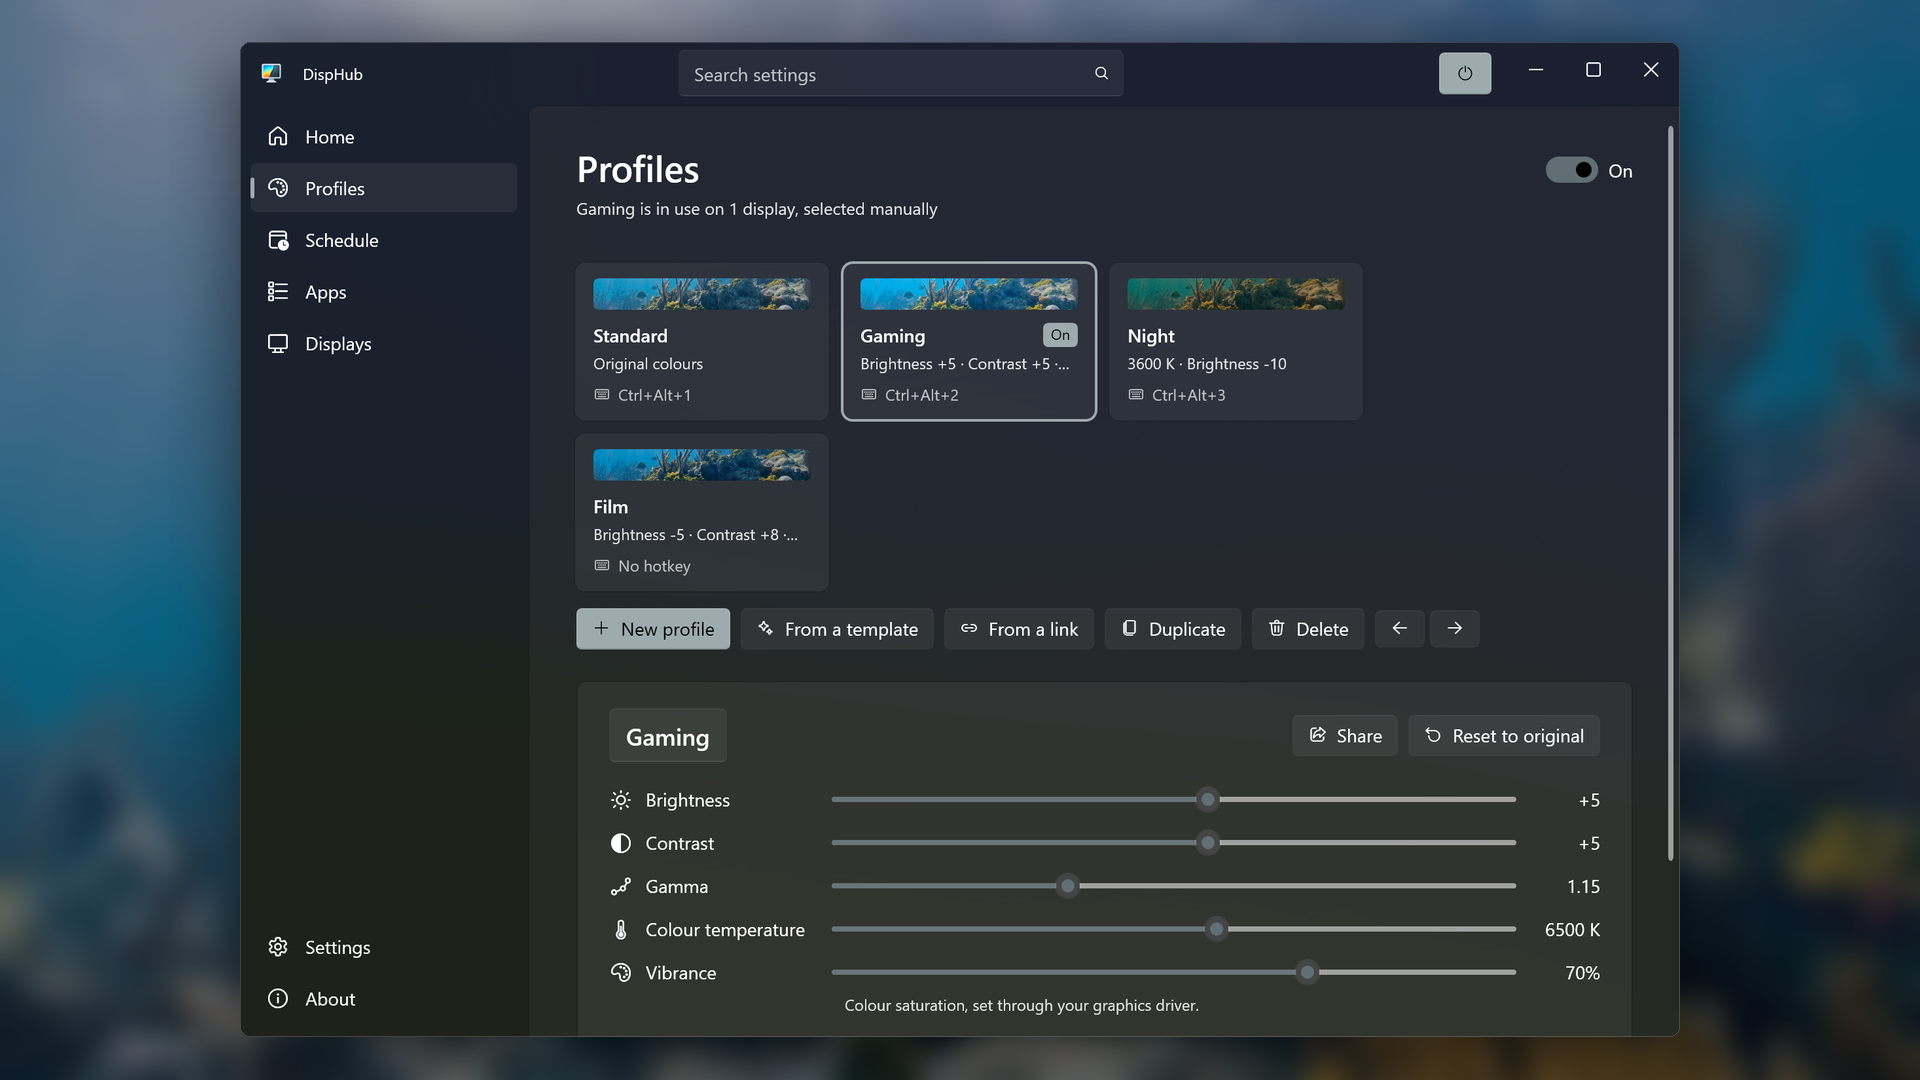
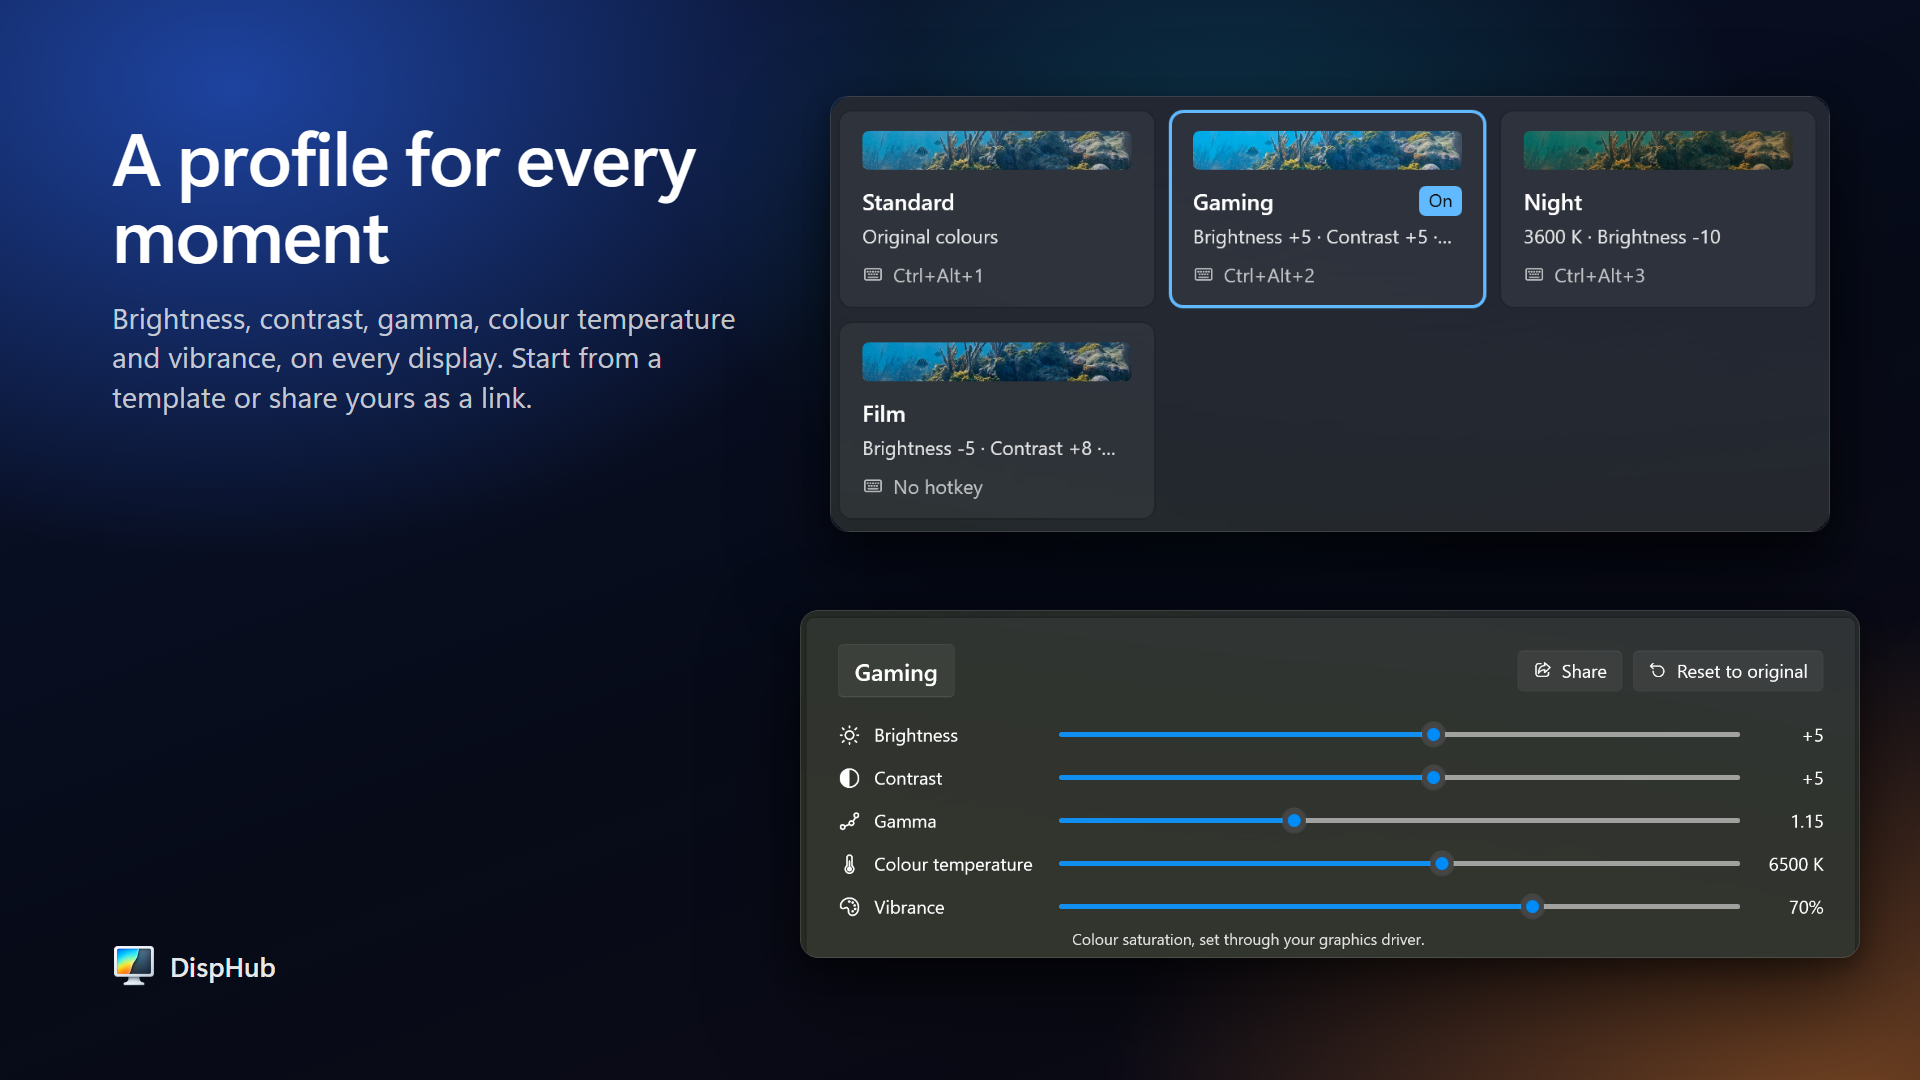
docs: designed Store screenshots, art and trailer thumbnail (#25)
The Store screenshots are now designed pages in one style instead of
plain window captures: a short headline and close-ups of the real UI,
with the before and after of a profile shown in DispHub's own colour
maths. Adds the Super hero art, box art, poster and trailer thumbnail.

diff --git a/store/listing/en-US.md b/store/listing/en-US.md
@@ -77,11 +77,19 @@ vibrance, gamma, screen dimmer, night light, color temperature, display profiles
 
 Use `store/screenshots/*.png` (1920 x 1080) in numbered order. Captions:
 
-1. See what's on your screen now and what your schedule does today
-2. A profile for every moment: games, films and late nights
-3. From sunset to sunrise, like Night light, with a smooth fade (Pro)
-4. Your game gets its own profile while it's in front (Pro)
-5. Switch and adjust from the notification area
+1. Switch profiles with a keyboard shortcut
+2. A profile for every moment
+3. Warmer evenings, automatically (Pro)
+4. Games get their own look (Pro)
+5. Switch and adjust from the quick panel
+
+## Store art and trailer
+
+- 16:9 Super hero art: `store/art/super-hero-1920x1080.png` (no text; the Store puts the title over its left side)
+- 1:1 Box art: `store/art/box-art-2160.png`
+- 9:16 Poster art: `store/art/poster-1440x2160.png`
+- Trailer: 31 s, 1920 x 1080, H.264 MP4, built from the same UI captures; thumbnail `store/art/trailer-thumbnail.png`.
+  The video (11 MB) is uploaded to Partner Center and not kept in git.
 
 ## Store logo
 
